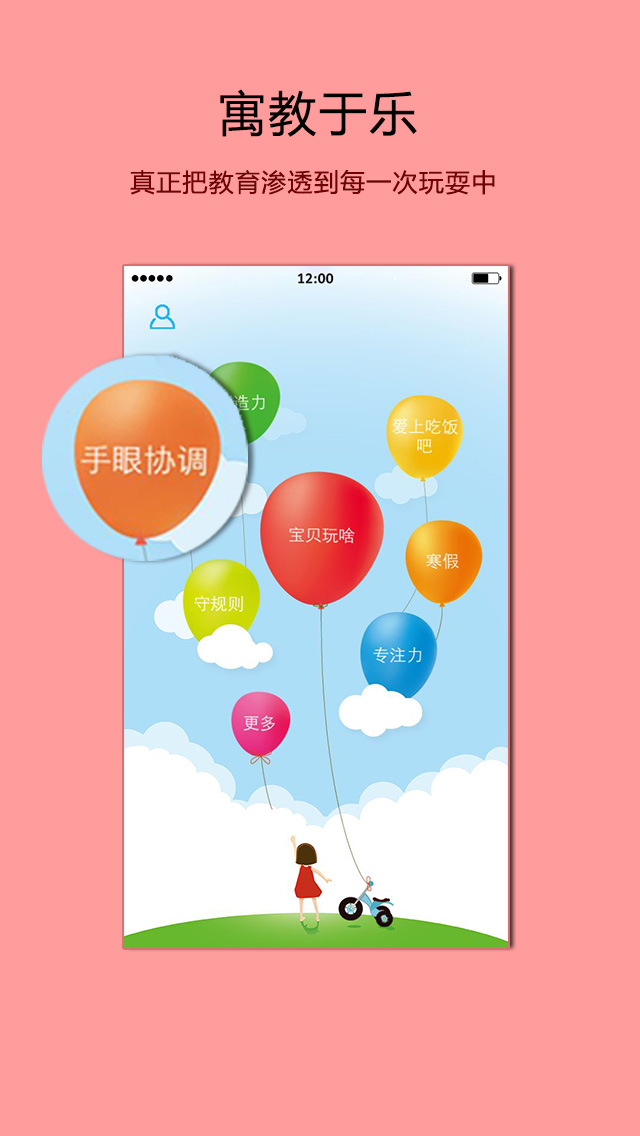
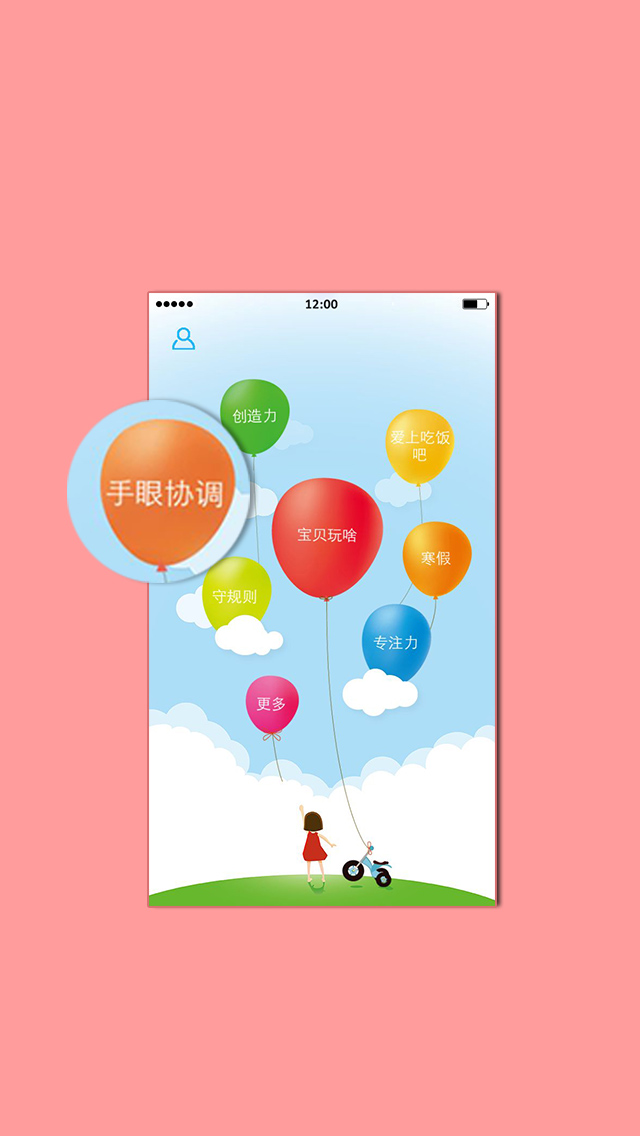
intro page update

Changed region(s): [[0.0625, 0.2157, 0.8125, 0.8627], [0.1875, 0.154, 0.7812, 0.1849], [0.3438, 0.0616, 0.6562, 0.1232]]

diff --git a/baobeiwansha/baobeiwansha/IntroView.m b/baobeiwansha/baobeiwansha/IntroView.m
@@ -8,20 +8,20 @@
     if (self) {
         UILabel *titleLabel = [[UILabel alloc] init];
         [titleLabel setText:model.titleText];
-        [titleLabel setTextColor:[UIColor whiteColor]];
-        [titleLabel setFont:[UIFont boldSystemFontOfSize:18]];
-        [titleLabel setShadowColor:[UIColor blackColor]];
+        [titleLabel setTextColor:[UIColor blackColor]];
+        [titleLabel setFont:[UIFont boldSystemFontOfSize:24]];
+        [titleLabel setShadowColor:[UIColor clearColor]];
         [titleLabel setShadowOffset:CGSizeMake(1, 1)];
         [titleLabel setBackgroundColor:[UIColor clearColor]];
         [titleLabel sizeToFit];
-        [titleLabel setCenter:CGPointMake(frame.size.width/2, frame.size.height-145)];
+        [titleLabel setCenter:CGPointMake(frame.size.width/2, 50)];
         [self addSubview:titleLabel];
         
         UILabel *descriptionLabel = [[UILabel alloc] init];
         [descriptionLabel setText:model.descriptionText];
         [descriptionLabel setFont:[UIFont systemFontOfSize:16]];
-        [descriptionLabel setTextColor:[UIColor whiteColor]];
-        [descriptionLabel setShadowColor:[UIColor blackColor]];
+        [descriptionLabel setTextColor:[UIColor blackColor]];
+        [descriptionLabel setShadowColor:[UIColor clearColor]];
         [descriptionLabel setShadowOffset:CGSizeMake(1, 1)];
         [descriptionLabel setNumberOfLines:3];
         [descriptionLabel setBackgroundColor:[UIColor clearColor]];

diff --git a/baobeiwansha/baobeiwansha/AppDelegate.m b/baobeiwansha/baobeiwansha/AppDelegate.m
@@ -85,11 +85,11 @@
     if (![[NSUserDefaults standardUserDefaults] boolForKey:@"firstStart"]) {
     
         
-        IntroModel *model1 = [[IntroModel alloc] initWithTitle:@"" description:@"" image:@"intro1.jpg"];
+        IntroModel *model1 = [[IntroModel alloc] initWithTitle:@"寓教于乐" description:@"真正把教育渗透到每一次玩耍中" image:@"intro1.jpg"];
         
-        IntroModel *model2 = [[IntroModel alloc] initWithTitle:@"" description:@"" image:@"intro2.jpg"];
+        IntroModel *model2 = [[IntroModel alloc] initWithTitle:@"个性推荐" description:@"针对性地对孩子的各项特点进行匹配" image:@"intro2.jpg"];
         
-        IntroModel *model3 = [[IntroModel alloc] initWithTitle:@"" description:@"" image:@"intro3.jpg"];
+        IntroModel *model3 = [[IntroModel alloc] initWithTitle:@"结合场景" description:@"为每一个场景寻找最合适的创意玩法" image:@"intro3.jpg"];
         
         CGRect bounds = [[UIScreen mainScreen] bounds];
         self.introcontroller = [[IntroControll alloc] initWithFrame:CGRectMake(0, 0, bounds.size.width, bounds.size.height) pages:@[model1, model2, model3]];

diff --git a/baobeiwansha/baobeiwansha/IntroControll.m b/baobeiwansha/baobeiwansha/IntroControll.m
@@ -71,7 +71,7 @@
             [startButton setTitleColor:fontNoSelectColor forState:UIControlStateNormal];
             [startButton setTitleColor:fontSelectColor forState:UIControlStateSelected];
             [startButton addTarget:self action:@selector(handleStartButtonClick) forControlEvents:UIControlEventTouchUpInside];
-            startButton.frame = CGRectMake((self.frame.size.width-160.0)/2, self.frame.size.height-70, 160.0, 30.0);
+            startButton.frame = CGRectMake((self.frame.size.width-160.0)/2, self.frame.size.height-60, 160.0, 30.0);
             [self addSubview:startButton];
         }
         
